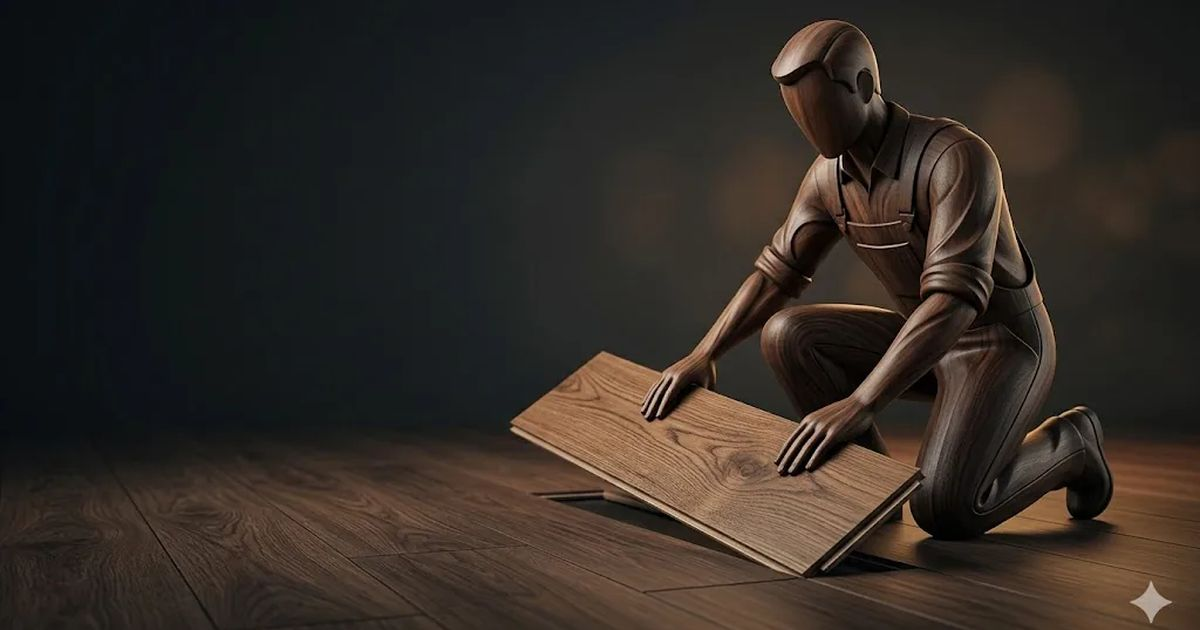
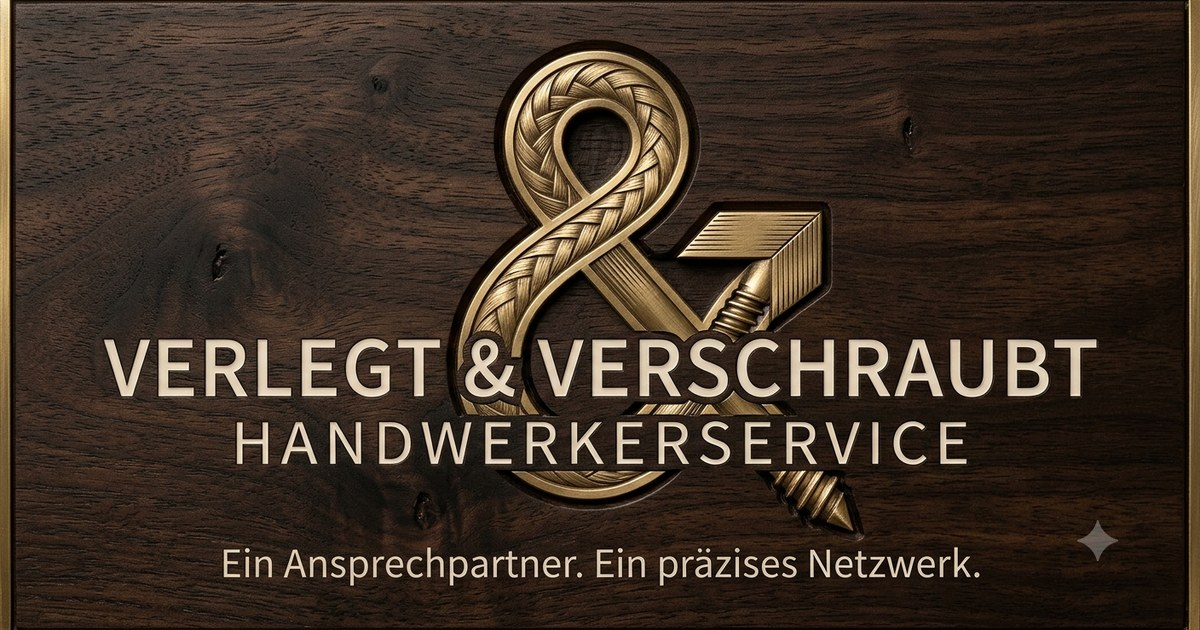
Branding: Markenschild als Social-Vorschaubild (og-image) inkl. Alt-Texte

diff --git a/src/routes/index.tsx b/src/routes/index.tsx
@@ -65,12 +65,12 @@ export const Route = createFileRoute("/")({
       },
       { property: "og:url", content: "https://verlegt-verschraubt.de/" },
       { property: "og:image", content: "https://verlegt-verschraubt.de/og-image.jpg" },
-      { property: "og:image:alt", content: "Bodenleger verlegt Laminat in Holzoptik – Verlegt & Verschraubt Wilhelmshaven" },
+      { property: "og:image:alt", content: "Markenschild von Verlegt & Verschraubt Handwerkerservice Wilhelmshaven – Ein Ansprechpartner, ein präzises Netzwerk" },
       { name: "twitter:card", content: "summary_large_image" },
       { name: "twitter:title", content: "Verlegt & Verschraubt – Handwerkerservice Wilhelmshaven" },
       { name: "twitter:description", content: "Bodenverlegung, Küchenmontage & Entrümpelung in Wilhelmshaven – auf Wunsch Koordination weiterer Gewerke über geprüfte Partner. Ehrliche Preise, Rückmeldung noch am selben Tag." },
       { name: "twitter:image", content: "https://verlegt-verschraubt.de/og-image.jpg" },
-      { name: "twitter:image:alt", content: "Bodenleger verlegt Laminat in Holzoptik – Verlegt & Verschraubt Wilhelmshaven" },
+      { name: "twitter:image:alt", content: "Markenschild von Verlegt & Verschraubt Handwerkerservice Wilhelmshaven – Ein Ansprechpartner, ein präzises Netzwerk" },
     ],
     links: [
       { rel: "canonical", href: "https://verlegt-verschraubt.de/" },